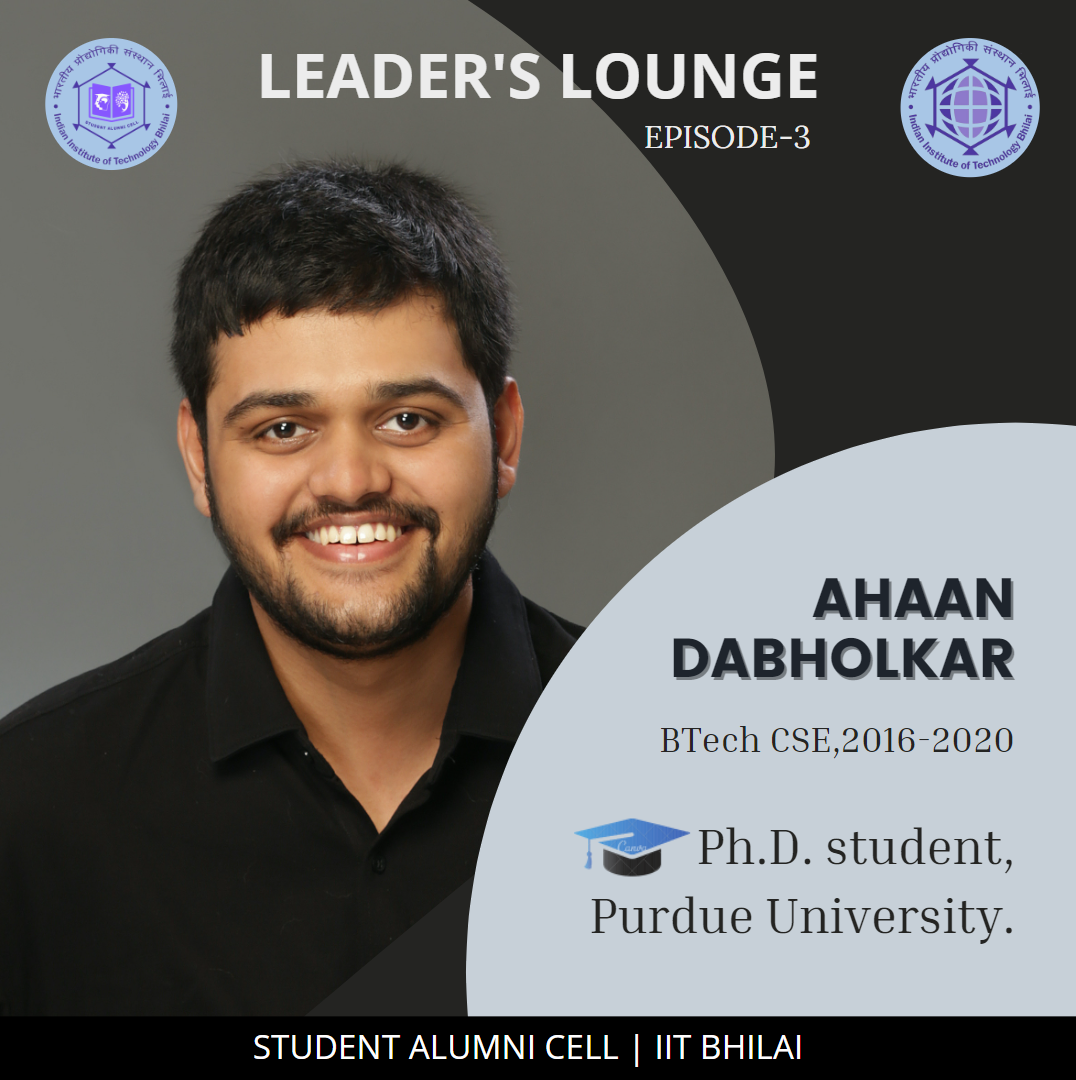
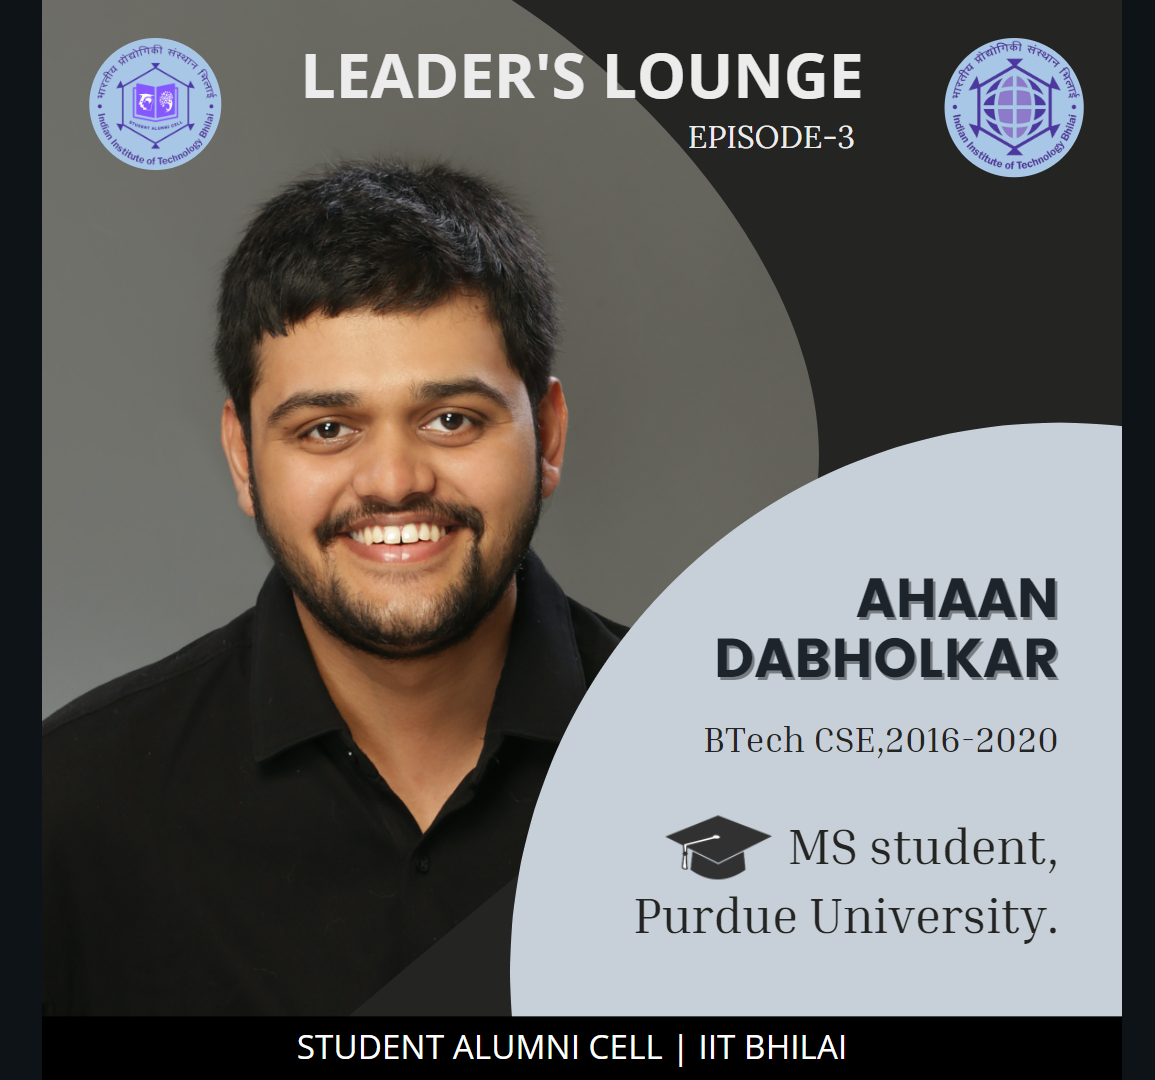
Some bugs fixed: 1. Ahaan bhaiya picture with PhD changed to the one which says MS 2. Corrected the youtube link to Ahaan bhaiya's video

diff --git a/Files/lounge.html b/Files/lounge.html
@@ -255,7 +255,7 @@
     </div>
         <div class="intro-y grid grid-cols-12 gap-6 mt-5">
             <div class="intro-y col-span-12 md:col-span-6 xl:col-span-4 box" style="padding-bottom: 0;">
-                <a href="https://www.youtube.com/watch?v=BsUuv5PsseE&t=1s">
+                <a href="https://www.youtube.com/watch?v=E2GVOXAKFhw    ">
                     <div>
                         <img class="rounded-md " style="width: 100%;" src="../images/Leaderslounge/leaders_lounge_3.png">
                     </div>
